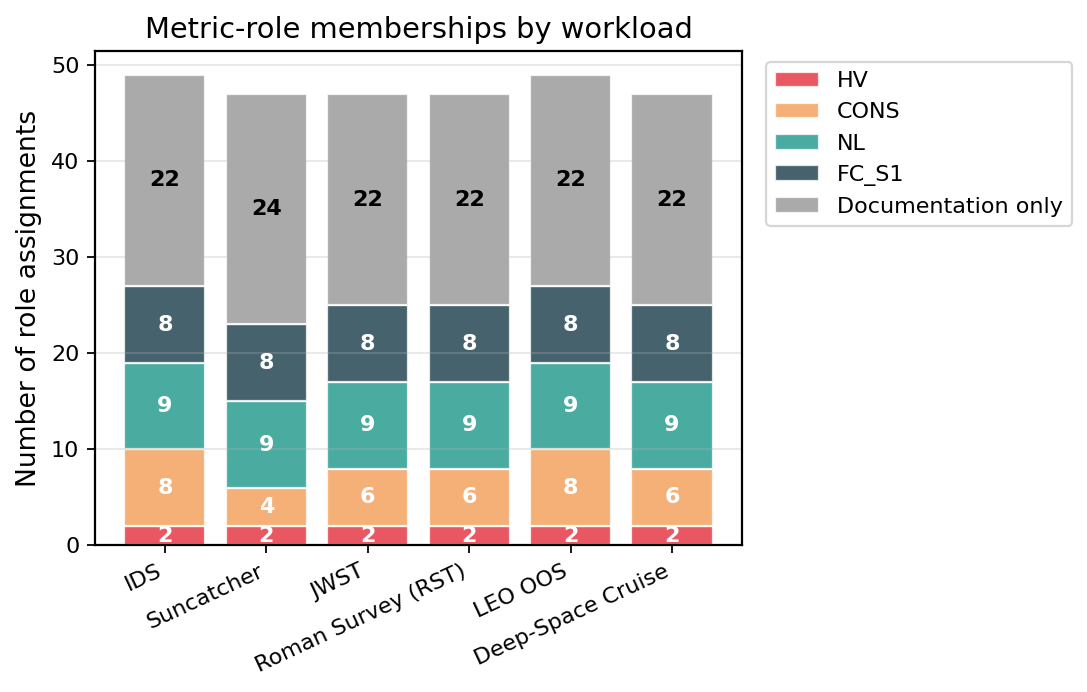
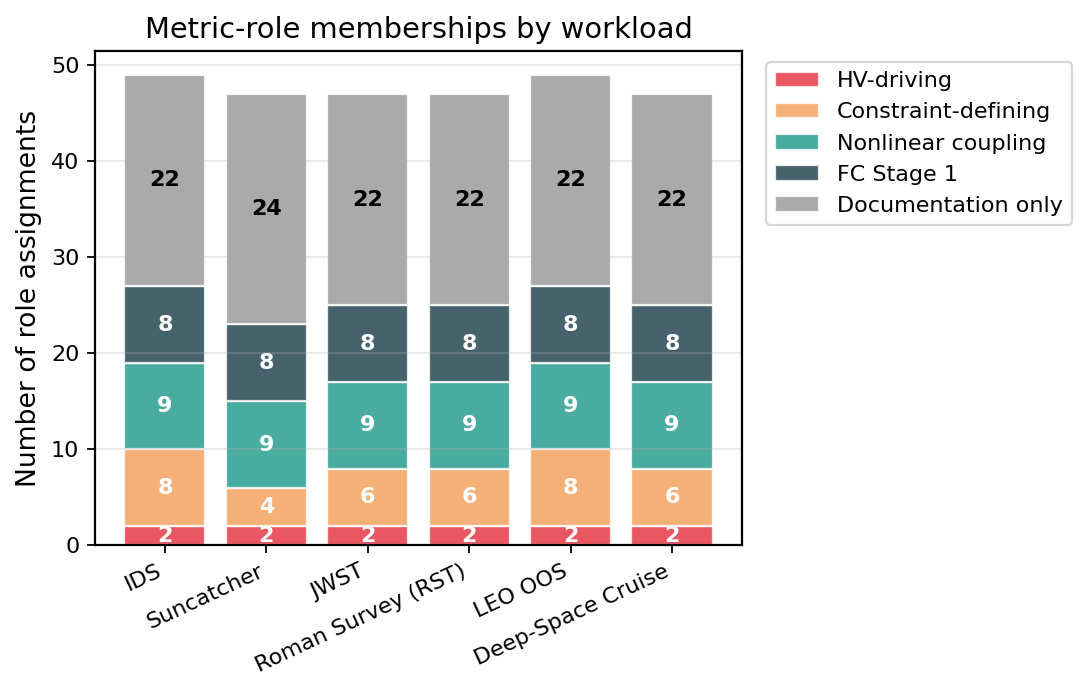
Use full role names in the metric-role figure legend

Changed region(s): [[0.7286, 0.091, 0.9715, 0.3338]]

diff --git a/src/make_typology_figure_v2.py b/src/make_typology_figure_v2.py
@@ -1,11 +1,10 @@
 #!/usr/bin/env python3
 """
-make_typology_figure_v2.py — metric-role figure for main_R1.tex.
+make_typology_figure_v2.py — metric-role figure (counts of each engineering metric's roles per workload).
 
-Same data (out_audit/audit_summary.json), same plotting code and style as
-make_paper_figures.fig4_variable_typology; only two labels differ:
-  title  "Variable-role memberships by workload" -> "Metric-role memberships by workload"
-  legend "LIN_ONLY"                              -> "Documentation only"
+Reads out_audit/audit_summary.json and uses the plotting style of make_paper_figures.
+Legend entries use the role names from the paper's text (HV-driving, constraint-defining,
+nonlinear coupling, FC Stage 1, documentation only).
 
 Output: ../figures/fig_variable_typology_v2.{png,pdf}
 """
@@ -20,7 +19,8 @@ import make_paper_figures as mpf  # applies the legacy rcParams; does not regene
 plt = mpf.plt
 
 OUT = Path("../figures")
-LEGEND_LABEL = {"LIN_ONLY": "Documentation only"}
+LEGEND_LABEL = {"HV": "HV-driving", "CONS": "Constraint-defining", "NL": "Nonlinear coupling",
+                "FC_S1": "FC Stage 1", "LIN_ONLY": "Documentation only"}
 WL_LABEL = {"SUNCATCHER": "Suncatcher", "RST": "Roman Survey (RST)", "LEO_OOS": "LEO OOS",
             "DEEP_SPACE_CRUISE": "Deep-Space Cruise"}
 
